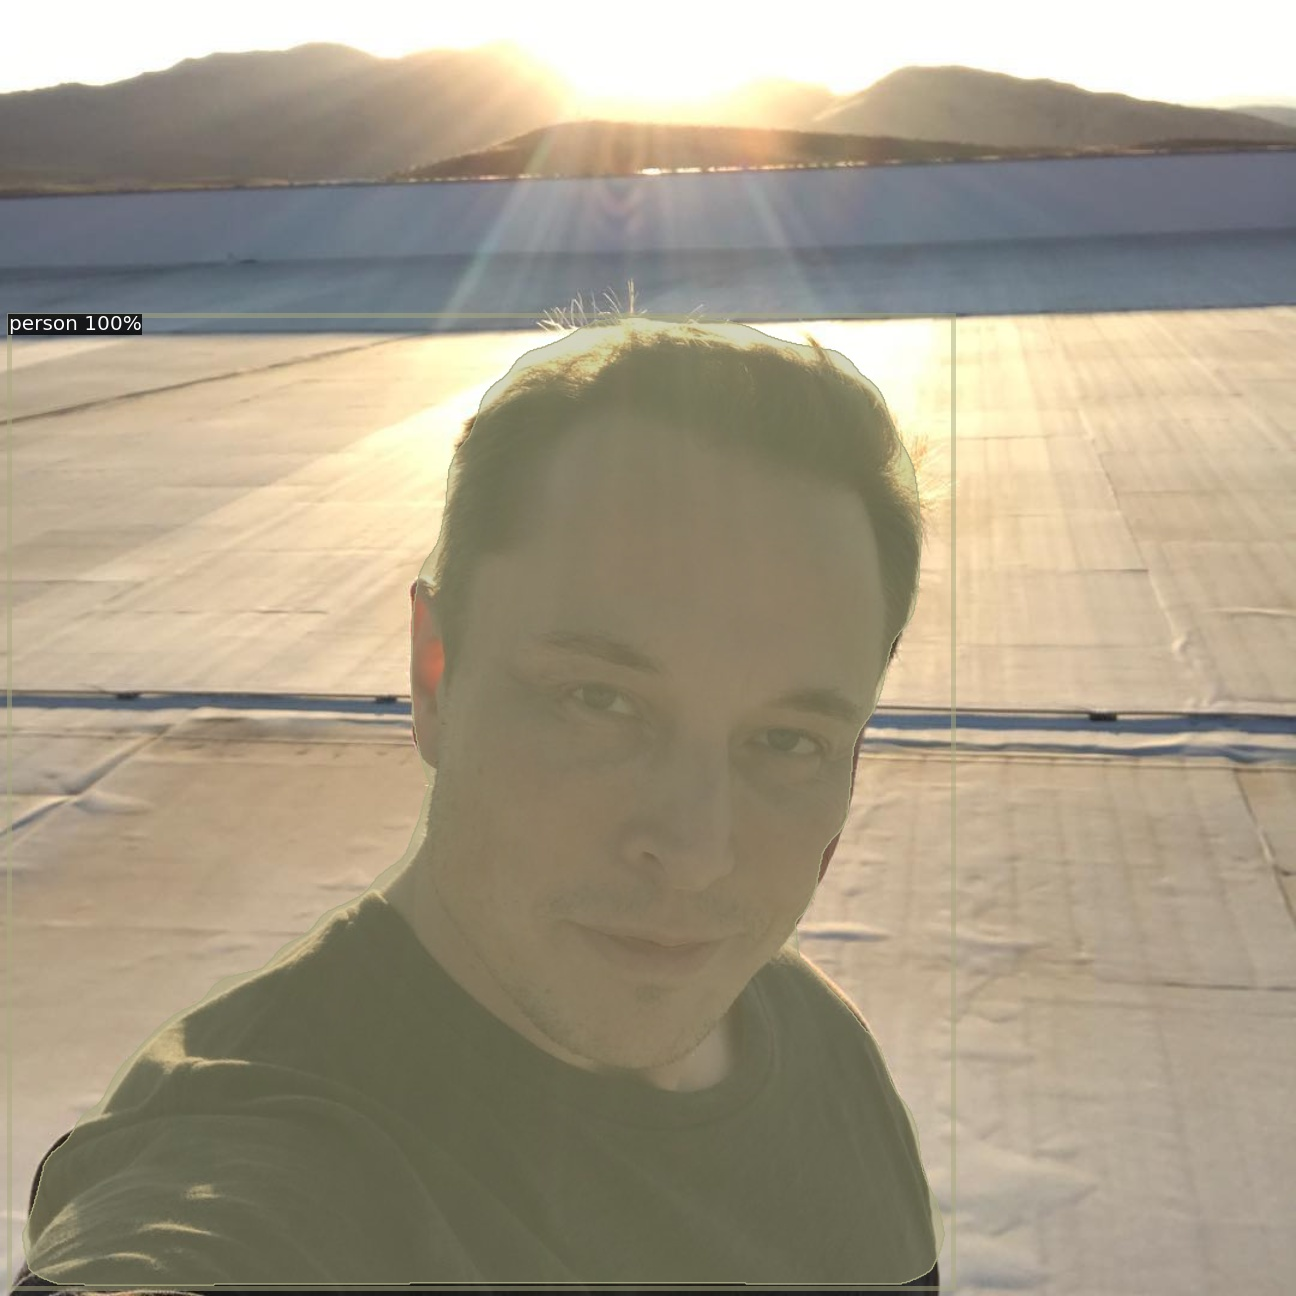
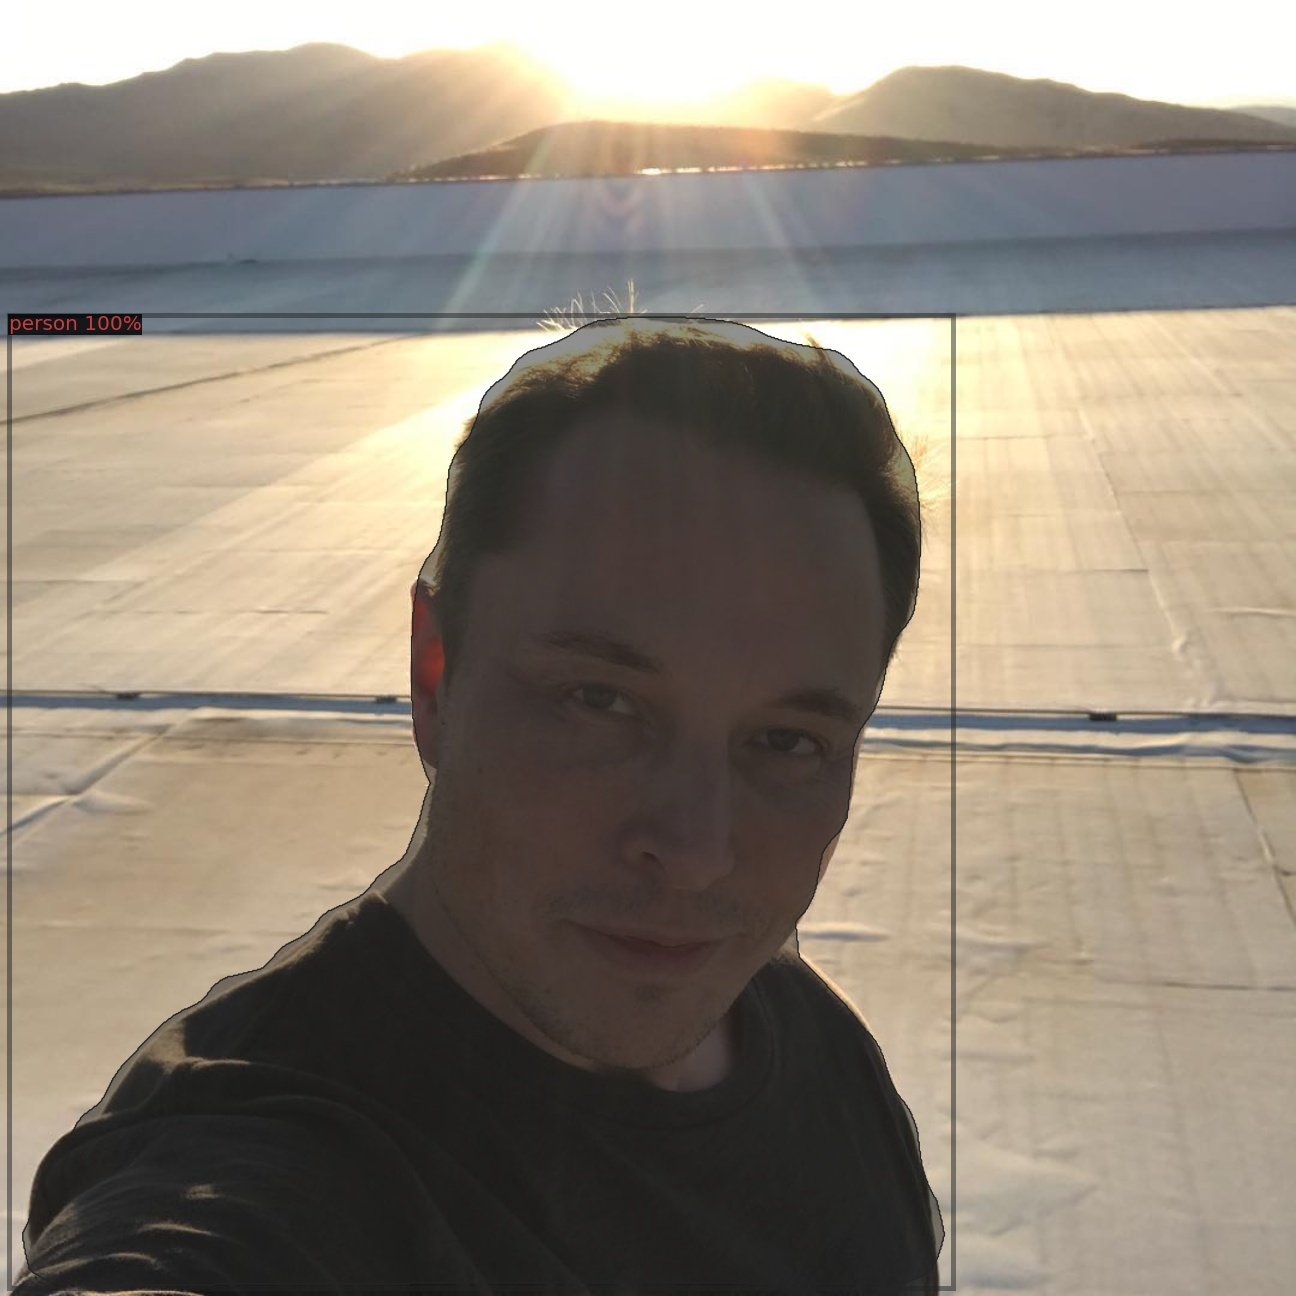
Added filter method to filter persons

diff --git a/detectron.py b/detectron.py
@@ -28,15 +28,25 @@ cfg.MODEL.ROI_HEADS.SCORE_THRESH_TEST = 0.5  # set threshold for this model
 cfg.MODEL.WEIGHTS = model_zoo.get_checkpoint_url("COCO-InstanceSegmentation/mask_rcnn_R_50_FPN_3x.yaml")
 predictor = DefaultPredictor(cfg)
 
+def filter_objects(outputs,class_id=0):
+    person_indices = []
+    for i in range(len(outputs['instances'])):
+        if (outputs['instances'][i].pred_classes) == 0:
+            person_indices.append(i)
+
+    persons = outputs['instances'][person_indices]
+    return persons
 
 
 def predict_mask(img_path):
     img = cv2.imread('elon.jpg')
     outputs = predictor(img)
 
+    persons = filter_objects(outputs,0)
+
     # We can use `Visualizer` to draw the predictions on the image.
     v = Visualizer(img[:, :, ::-1], MetadataCatalog.get(cfg.DATASETS.TRAIN[0]), scale=1.2)
-    out = v.draw_instance_predictions(outputs["instances"].to("cpu"))
+    out = v.draw_instance_predictions(persons.to("cpu"))
 
     mask_img = out.get_image()[:, :, ::-1]
     cv2.imwrite("elon_masked.jpg", mask_img)

diff --git a/main.py b/main.py
@@ -7,13 +7,16 @@ import cv2
 import base64
 import time
 
+
 app = FastAPI()
+
 
 @app.get('/')
 def home():
     return {"Welcome":"to FastAPI"}
 
-@app.get("/detectron2/{path}")
+
+@app.get("/detectron_person/{path}")
 def display_path(path: str, q: Optional[str] = None):
     try:
         start = time.time()
@@ -25,8 +28,7 @@ def display_path(path: str, q: Optional[str] = None):
         return {"error" : str(e)}
 
 
-
-@app.get("/detectron/{path}")
+@app.get("/detectron_b64/{path}")
 def display_path(path: str):
 
     img = cv2.imread('elon.jpg')
